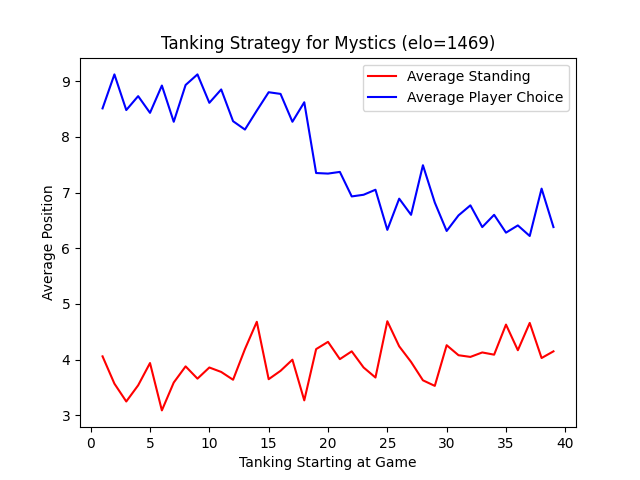
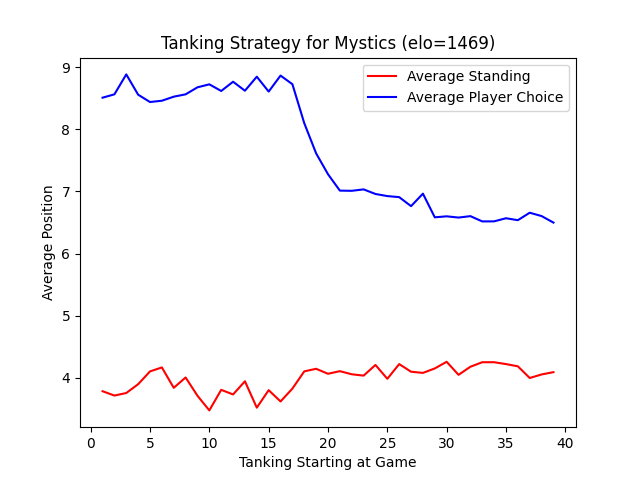
better plots

diff --git a/main.py b/main.py
@@ -52,7 +52,7 @@ def full_simulation_no_tanking():
 	print([np.mean(pos) for pos in positionVSPreference])
 
 def full_simulation_with_tanking():
-	B = 100
+	B = 1000
 
 	# vanilla draft
 	draftPreference = {team: [] for team in WNBA_TEAMS for i in range(1, NUM_GAMES_PER_TEAM + 2)}
